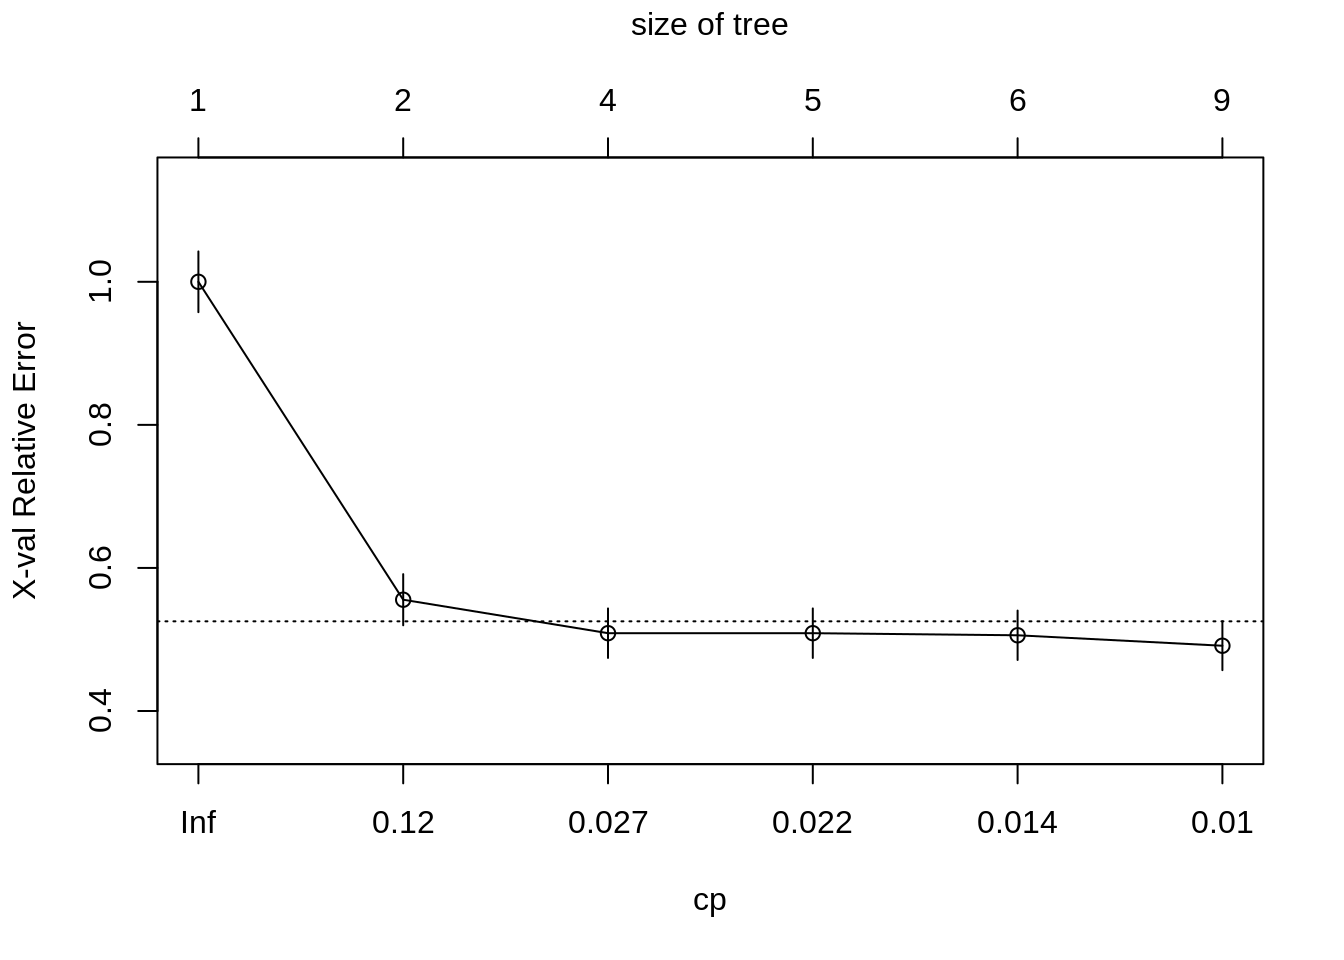
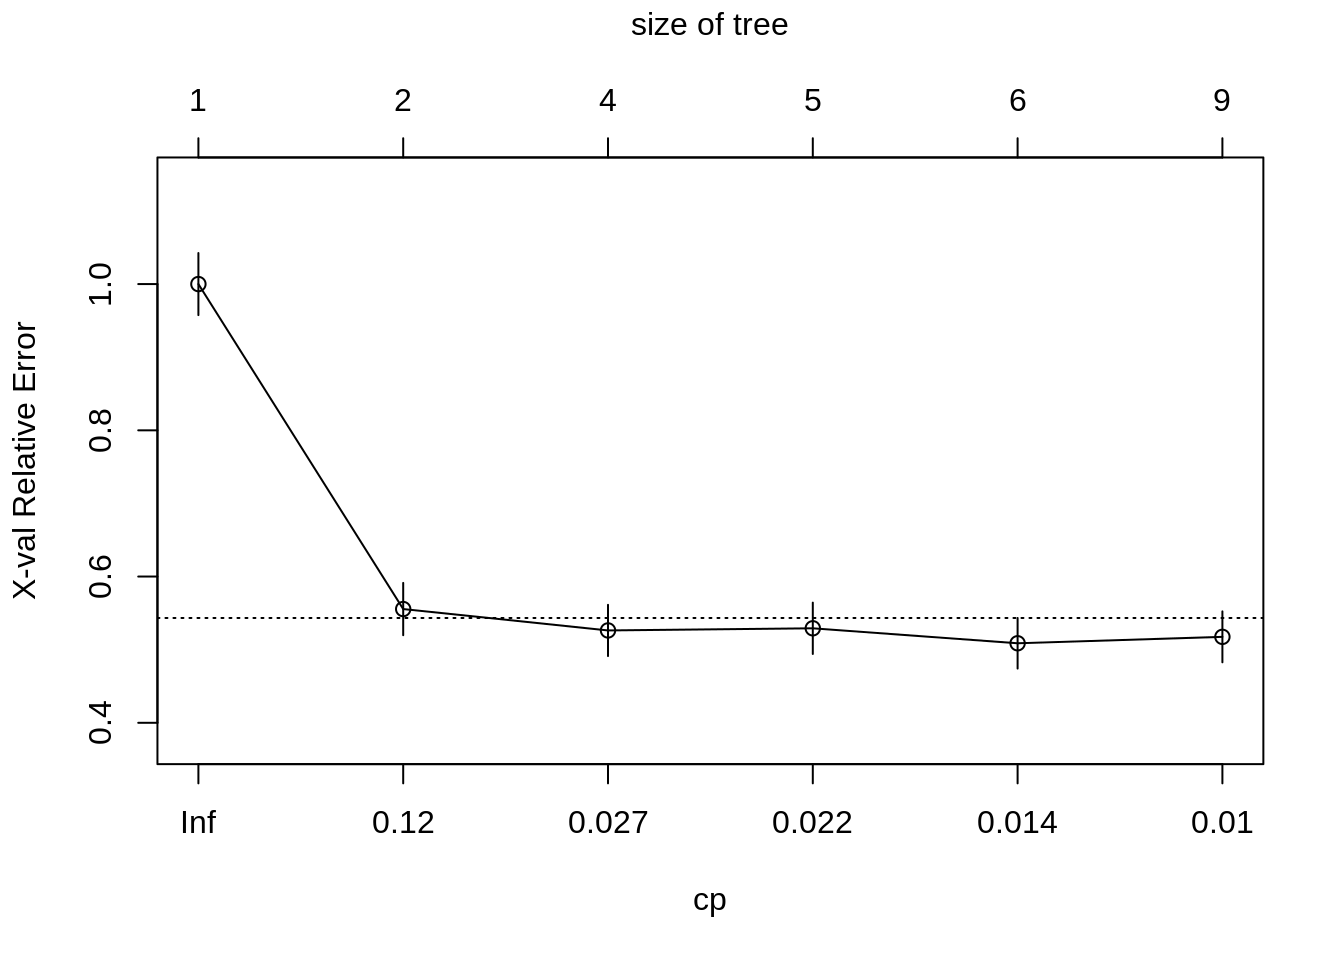
Deploy lebebr01/stat_thinking to github.com/lebebr01/stat_thinking.git:master

diff --git a/docs/classification.html b/docs/classification.html
@@ -324,10 +324,10 @@ titanic &lt;-<span class="st"> </span><span class="kw">bind_rows</span>(titanic_
 ##         CP nsplit rel error  xerror     xstd
 ## 1 0.444444      0   1.00000 1.00000 0.042446
 ## 2 0.030702      1   0.55556 0.55556 0.035750
-## 3 0.023392      3   0.49415 0.50877 0.034599
-## 4 0.020468      4   0.47076 0.50877 0.034599
-## 5 0.010234      5   0.45029 0.50585 0.034524
-## 6 0.010000      8   0.41813 0.49123 0.034140</code></pre>
+## 3 0.023392      3   0.49415 0.52632 0.035043
+## 4 0.020468      4   0.47076 0.52924 0.035116
+## 5 0.010234      5   0.45029 0.50877 0.034599
+## 6 0.010000      8   0.41813 0.51754 0.034823</code></pre>
 <div class="sourceCode"><pre class="sourceCode r"><code class="sourceCode r"><span class="kw">plotcp</span>(class_tree)</code></pre></div>
 <p><img src="05-classification_files/figure-html/unnamed-chunk-6-1.png" width="672" /></p>
 <div class="sourceCode"><pre class="sourceCode r"><code class="sourceCode r">prune_class_tree &lt;-<span class="st"> </span><span class="kw">prune</span>(class_tree, <span class="dt">cp =</span> .<span class="dv">02</span>)

diff --git a/docs/05-classification.md b/docs/05-classification.md
@@ -249,10 +249,10 @@ printcp(class_tree)
 ##         CP nsplit rel error  xerror     xstd
 ## 1 0.444444      0   1.00000 1.00000 0.042446
 ## 2 0.030702      1   0.55556 0.55556 0.035750
-## 3 0.023392      3   0.49415 0.50877 0.034599
-## 4 0.020468      4   0.47076 0.50877 0.034599
-## 5 0.010234      5   0.45029 0.50585 0.034524
-## 6 0.010000      8   0.41813 0.49123 0.034140
+## 3 0.023392      3   0.49415 0.52632 0.035043
+## 4 0.020468      4   0.47076 0.52924 0.035116
+## 5 0.010234      5   0.45029 0.50877 0.034599
+## 6 0.010000      8   0.41813 0.51754 0.034823
 ```
 
 ```r
